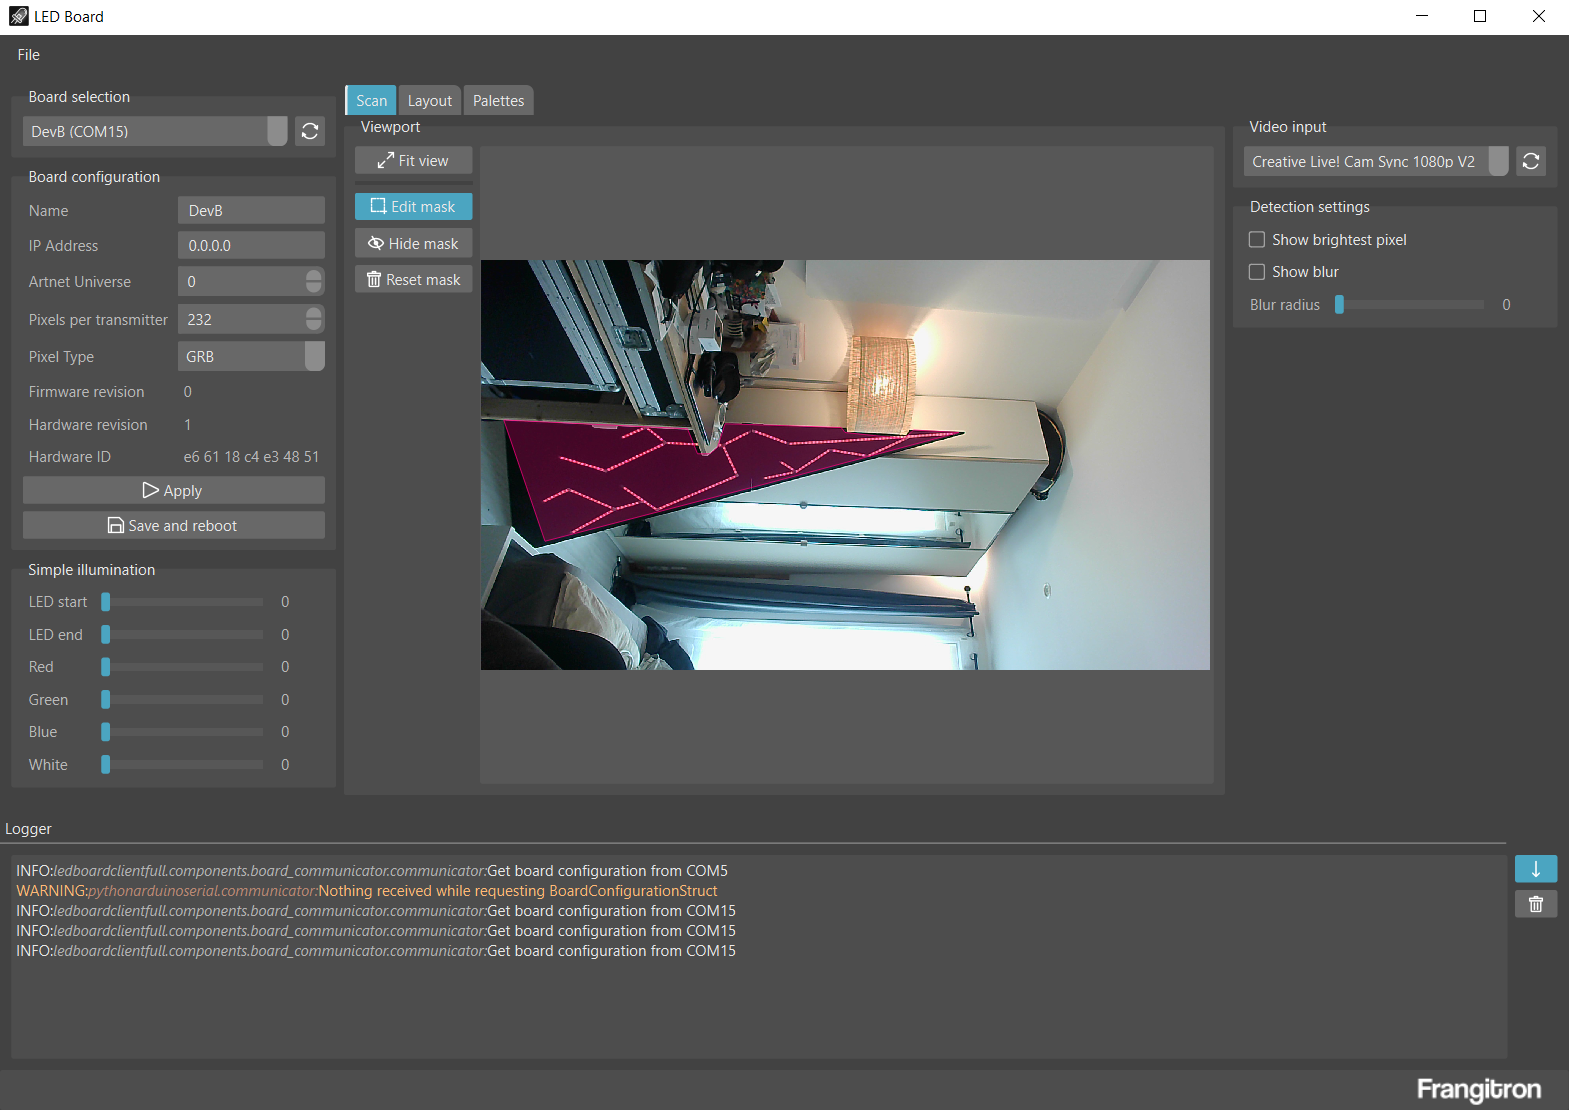
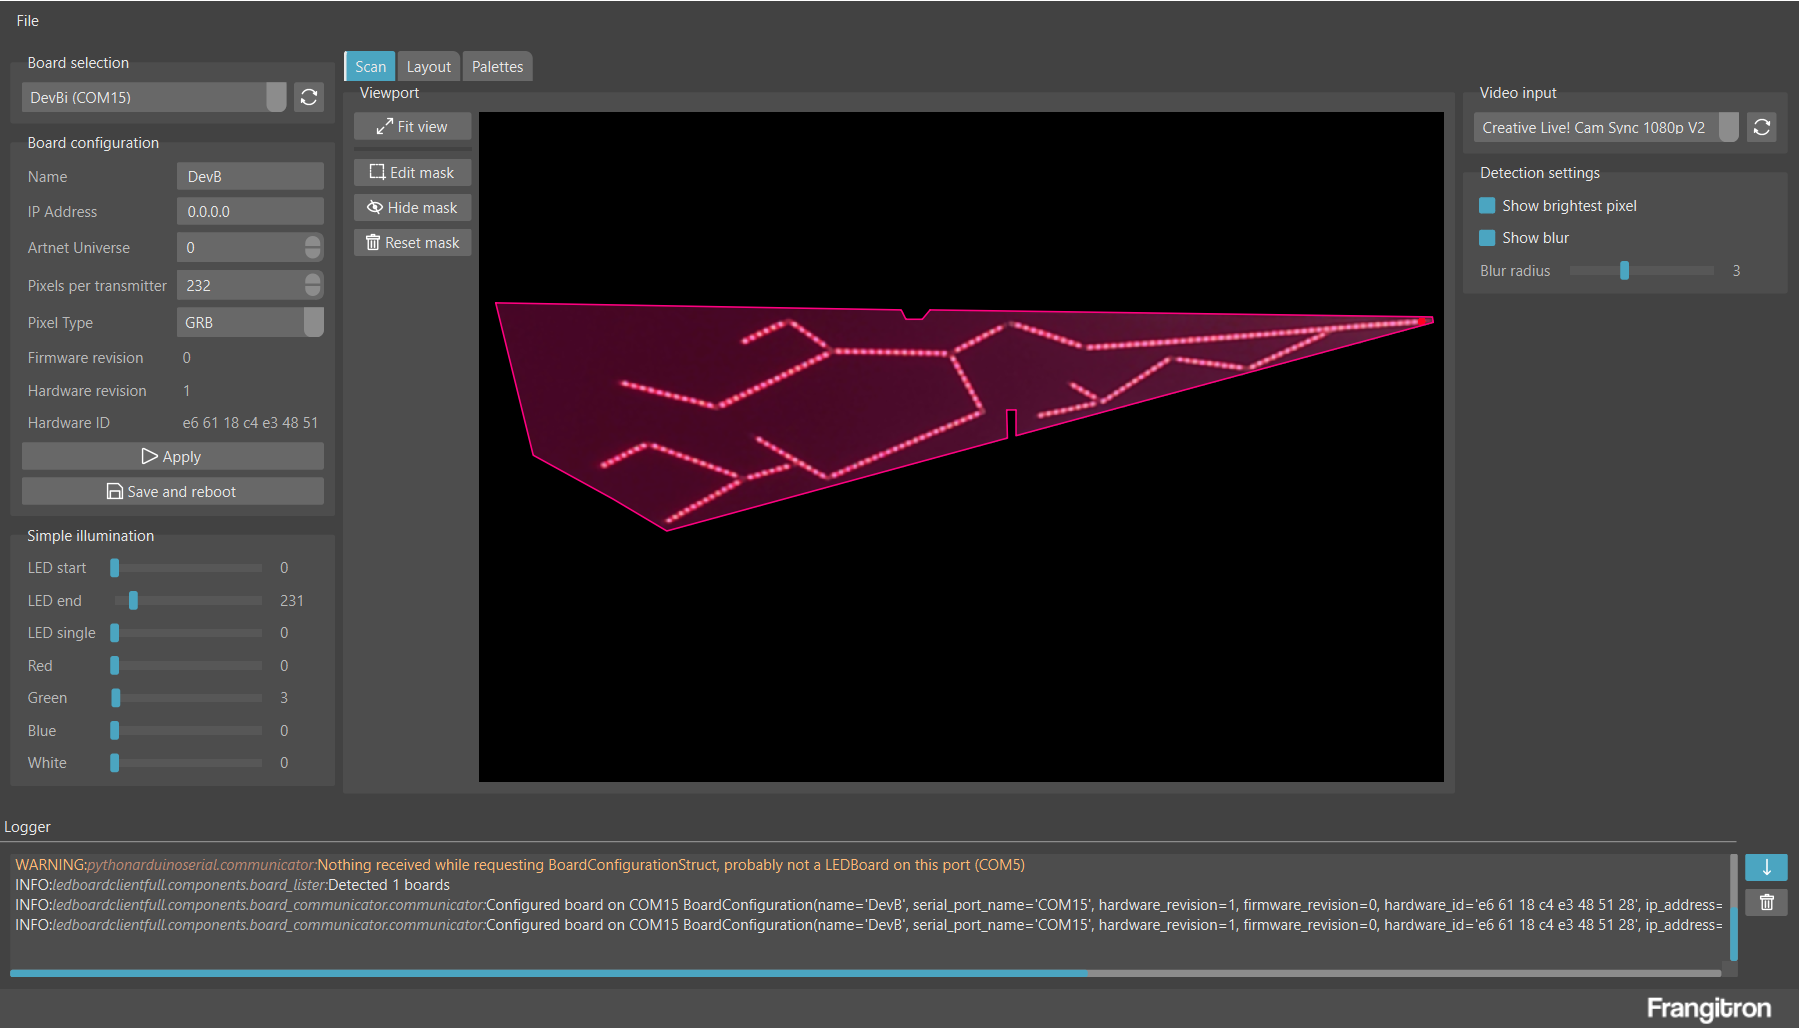
feat(Scan): led range

diff --git a/ledboarddesktopfull/components/scan/settings.py b/ledboarddesktopfull/components/scan/settings.py
@@ -1,13 +1,13 @@
 from PySide6.QtCore import Qt
 from PySide6.QtWidgets import QWidget, QVBoxLayout, QComboBox, QPushButton, QCheckBox
 
+from pyside6helpers import combo, icons
 from pyside6helpers.group import make_group
-from pyside6helpers import icons
 from pyside6helpers.hourglass import hourglass_wrapper
-from pyside6helpers import combo
 from pyside6helpers.slider import Slider
+from pyside6helpers.spinbox import SpinBox
 
-from ledboardclientfull import scan_api
+from ledboardclientfull import board_api, illumination_api, scan_api
 
 from ledboarddesktopfull.core.ui_components import UiComponents
 
@@ -41,6 +41,13 @@ class ScanSettingsWidget(QWidget):
         )
 
         #
+        # LEDs
+        self.spin_led_first = SpinBox("first", on_value_changed=self._apply)
+        self.spin_led_last = SpinBox("last", on_value_changed=self._apply)
+        self.button_led_range_from_illumination = QPushButton("From illumination")
+        self.button_led_range_from_illumination.clicked.connect(self._led_range_from_illumination)
+
+        #
         # Layout
         layout = QVBoxLayout(self)
         layout.setContentsMargins(0, 0, 0, 0)
@@ -58,6 +65,14 @@ class ScanSettingsWidget(QWidget):
                 self.checkbox_viewport_brightest_pixel,
                 self.checkbox_viewport_blur,
                 self.slider_blur_radius
+            ]
+        ))
+        layout.addWidget(make_group(
+            "LEDs",
+            widgets=[
+                self.spin_led_first,
+                self.spin_led_last,
+                self.button_led_range_from_illumination
             ]
         ))
         layout.addWidget(QWidget())
@@ -100,9 +115,33 @@ class ScanSettingsWidget(QWidget):
 
         self._dont_apply += 1
 
-        settings = scan_api.get_settings()
-        self.checkbox_viewport_blur.setChecked(settings.viewport_blur)
-        self.checkbox_viewport_brightest_pixel.setChecked(settings.viewport_brightest_pixel)
-        self.slider_blur_radius.setValue(settings.blur_radius)
+        scan_settings = scan_api.get_settings()
+        self.checkbox_viewport_blur.setChecked(scan_settings.viewport_blur)
+        self.checkbox_viewport_brightest_pixel.setChecked(scan_settings.viewport_brightest_pixel)
+        self.slider_blur_radius.setValue(scan_settings.blur_radius)
+
+        board_settings = board_api.get_selected_board()
+        self.spin_led_first.setRange(0, board_settings.pixel_per_transmitter * 8)
+        self.spin_led_first.setValue(scan_settings.led_first)
+        self.spin_led_last.setRange(0, board_settings.pixel_per_transmitter * 8)
+        self.spin_led_last.setValue(scan_settings.led_last)
 
         self._dont_apply -= 1
+
+    def _led_range_from_illumination(self):
+        self._dont_apply += 1
+        illumination = illumination_api.get_illumination()
+        self.spin_led_first.setValue(illumination.led_start)
+        self.spin_led_last.setValue(illumination.led_end)
+        self._dont_apply -= 1
+        self._apply()
+
+    def _apply(self):
+        # FIXME: use this function for all widget changed
+        if self._dont_apply > 0:
+            return
+
+        settings = scan_api.get_settings()
+        settings.led_first = self.spin_led_first.value()
+        settings.led_last = self.spin_led_last.value()
+        scan_api.set_settings(settings)

diff --git a/ledboarddesktopfull/components/board/selector.py b/ledboarddesktopfull/components/board/selector.py
@@ -12,6 +12,7 @@ class BoardSelectorWidget(QWidget):
     def __init__(self, parent=None):
         super().__init__(parent)
 
+        self._dont_apply = 0
         self._boards_list = BoardsList()
 
         self.combo = QComboBox()
@@ -33,10 +34,15 @@ class BoardSelectorWidget(QWidget):
         combo.update(self.combo, [f"{b.name} ({b.serial_port_name})" for b in self._boards_list.boards])
 
     def board_selected(self, index):
+        if self._dont_apply > 0:
+            return
+
         board_api.select_board(self._boards_list.boards[index])
         self.boardSelected.emit()
 
     def load_from_client(self):
+        self._dont_apply += 1
+
         self._reload_board_list()
         current_board = board_api.get_selected_board()
         if current_board is not None:
@@ -44,3 +50,5 @@ class BoardSelectorWidget(QWidget):
             self.combo.setCurrentIndex(index)
         else:
             self.combo.setCurrentIndex(-1)
+
+        self._dont_apply -= 1

diff --git a/ledboarddesktopfull/components/launcher.py b/ledboarddesktopfull/components/launcher.py
@@ -84,3 +84,4 @@ class Launcher(QObject):
 
         UiC().widgets.board_selector.boardSelected.connect(UiC().widgets.board_configurator.refresh)
         UiC().widgets.board_selector.boardSelected.connect(UiC().widgets.board_illuminator.load_from_client)
+        UiC().widgets.board_selector.boardSelected.connect(UiC().widgets.scan.load_from_client)

diff --git a/ledboarddesktopfull/components/scan/viewport/widget.py b/ledboarddesktopfull/components/scan/viewport/widget.py
@@ -72,4 +72,4 @@ class ScanViewport(QWidget):
         self.viewport_mask_drawer.mask_item.setVisible(is_visible)
 
     def load_from_client(self):
-        self.viewport_mask_drawer.set_mask(scan_api.get_mask())
+        self.viewport_mask_drawer.set_mask(scan_api.get_mask())  # FIXME: create ViewportMaskDrawer.load_from_client() ?
